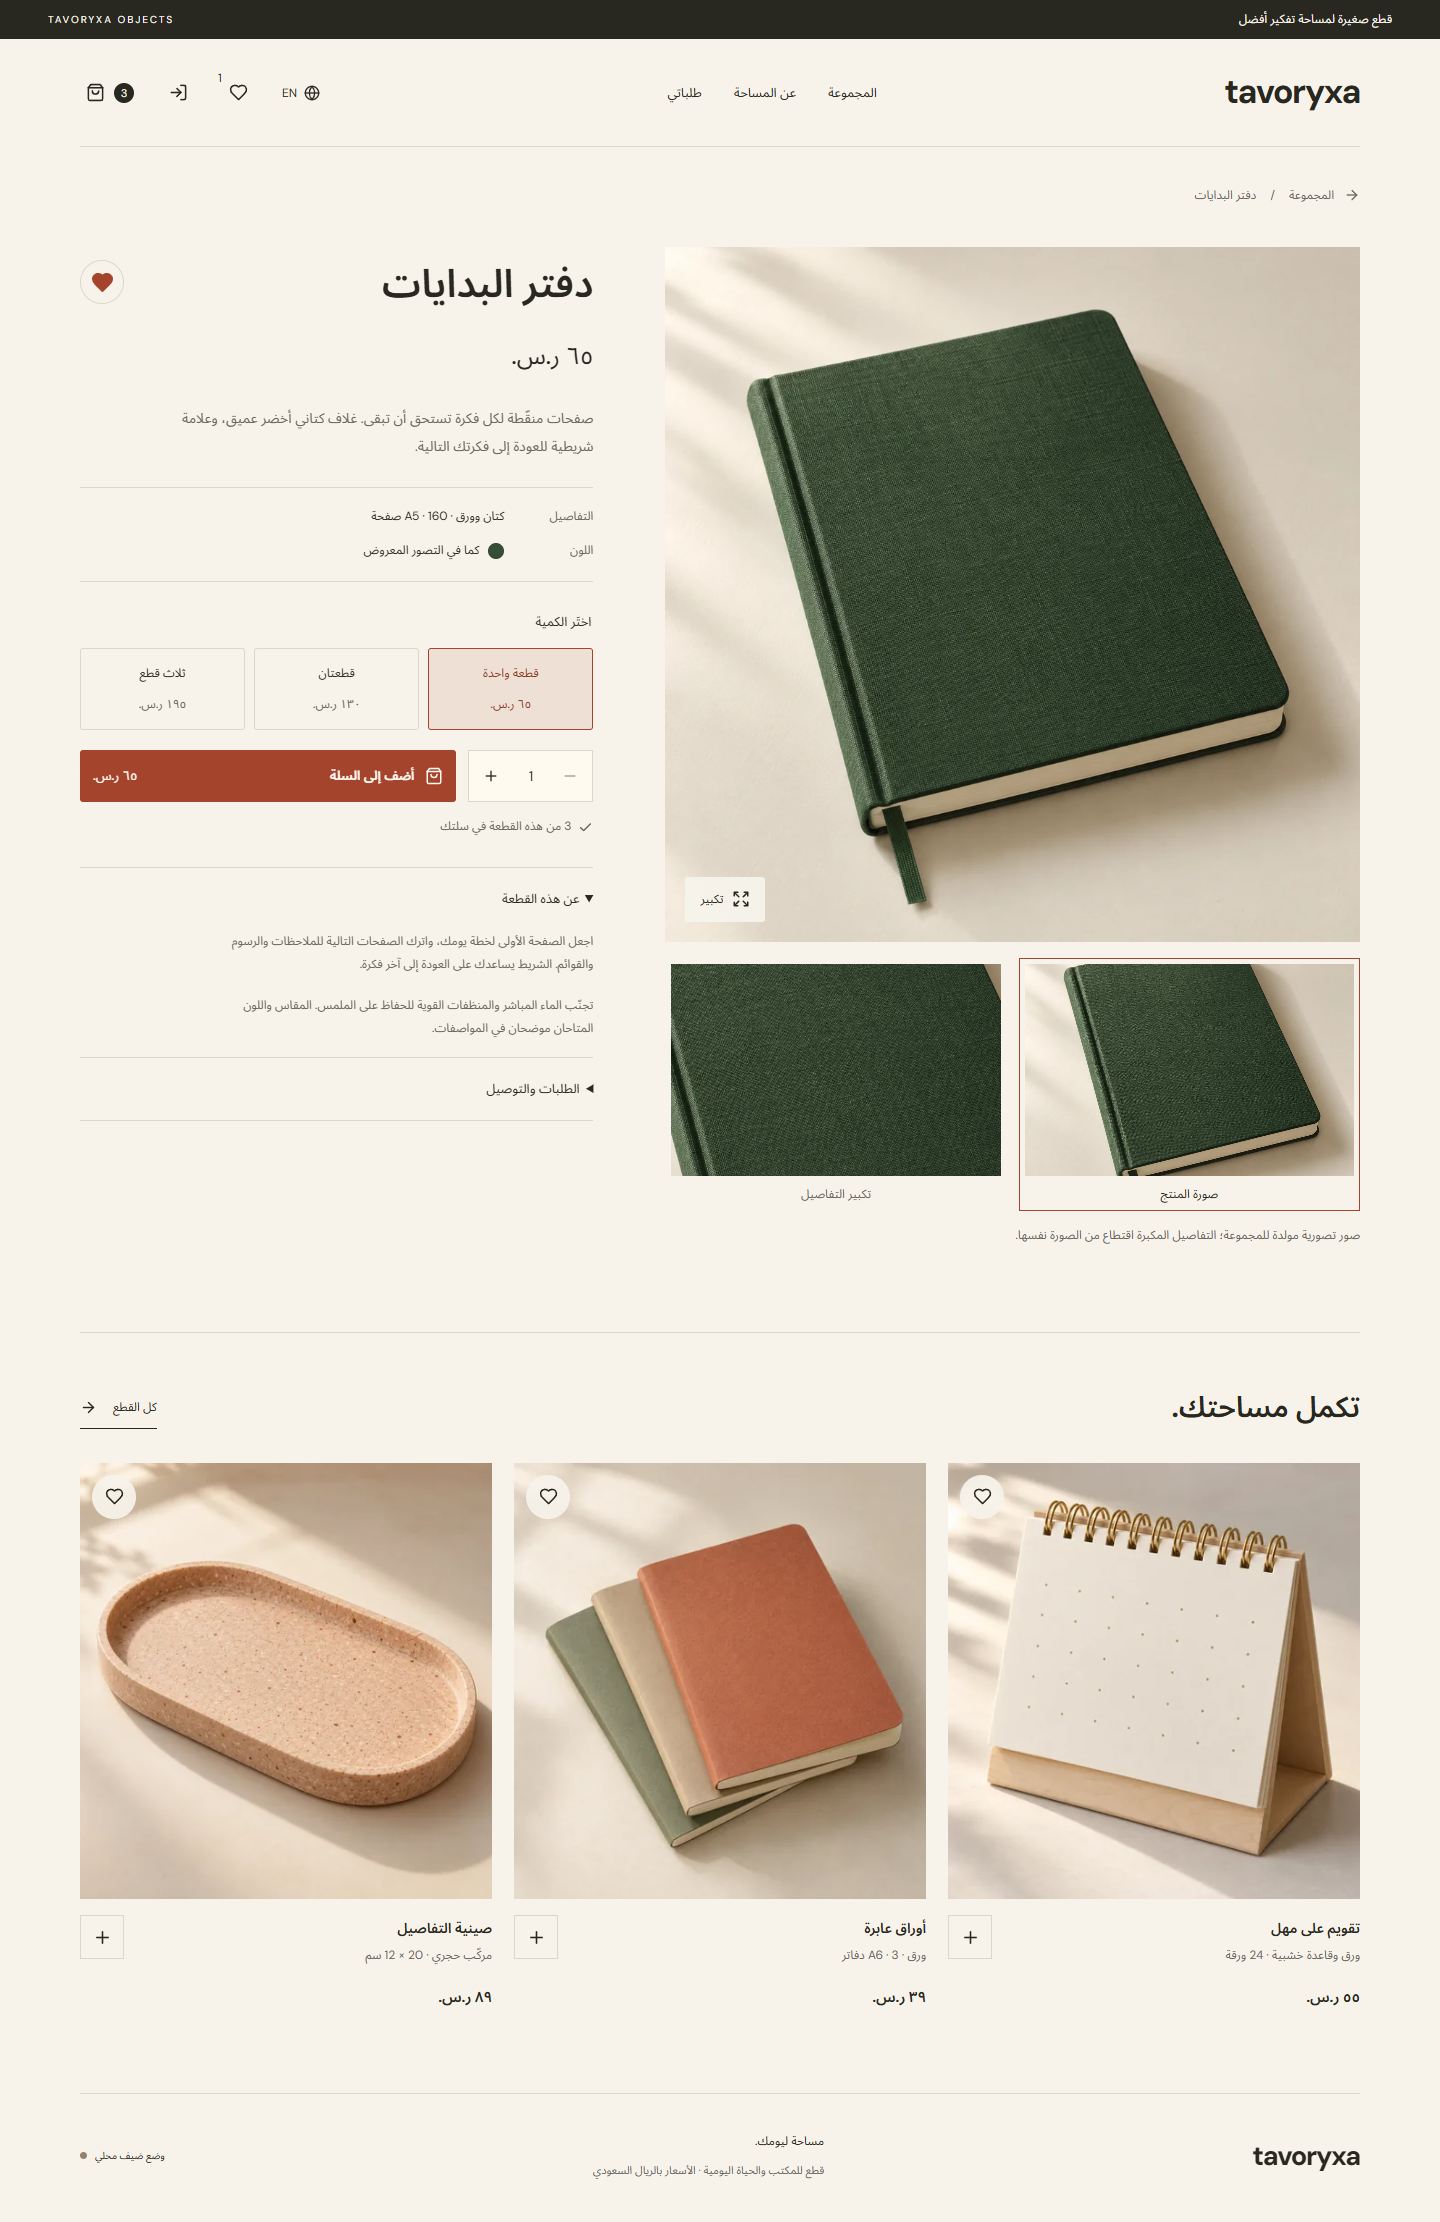
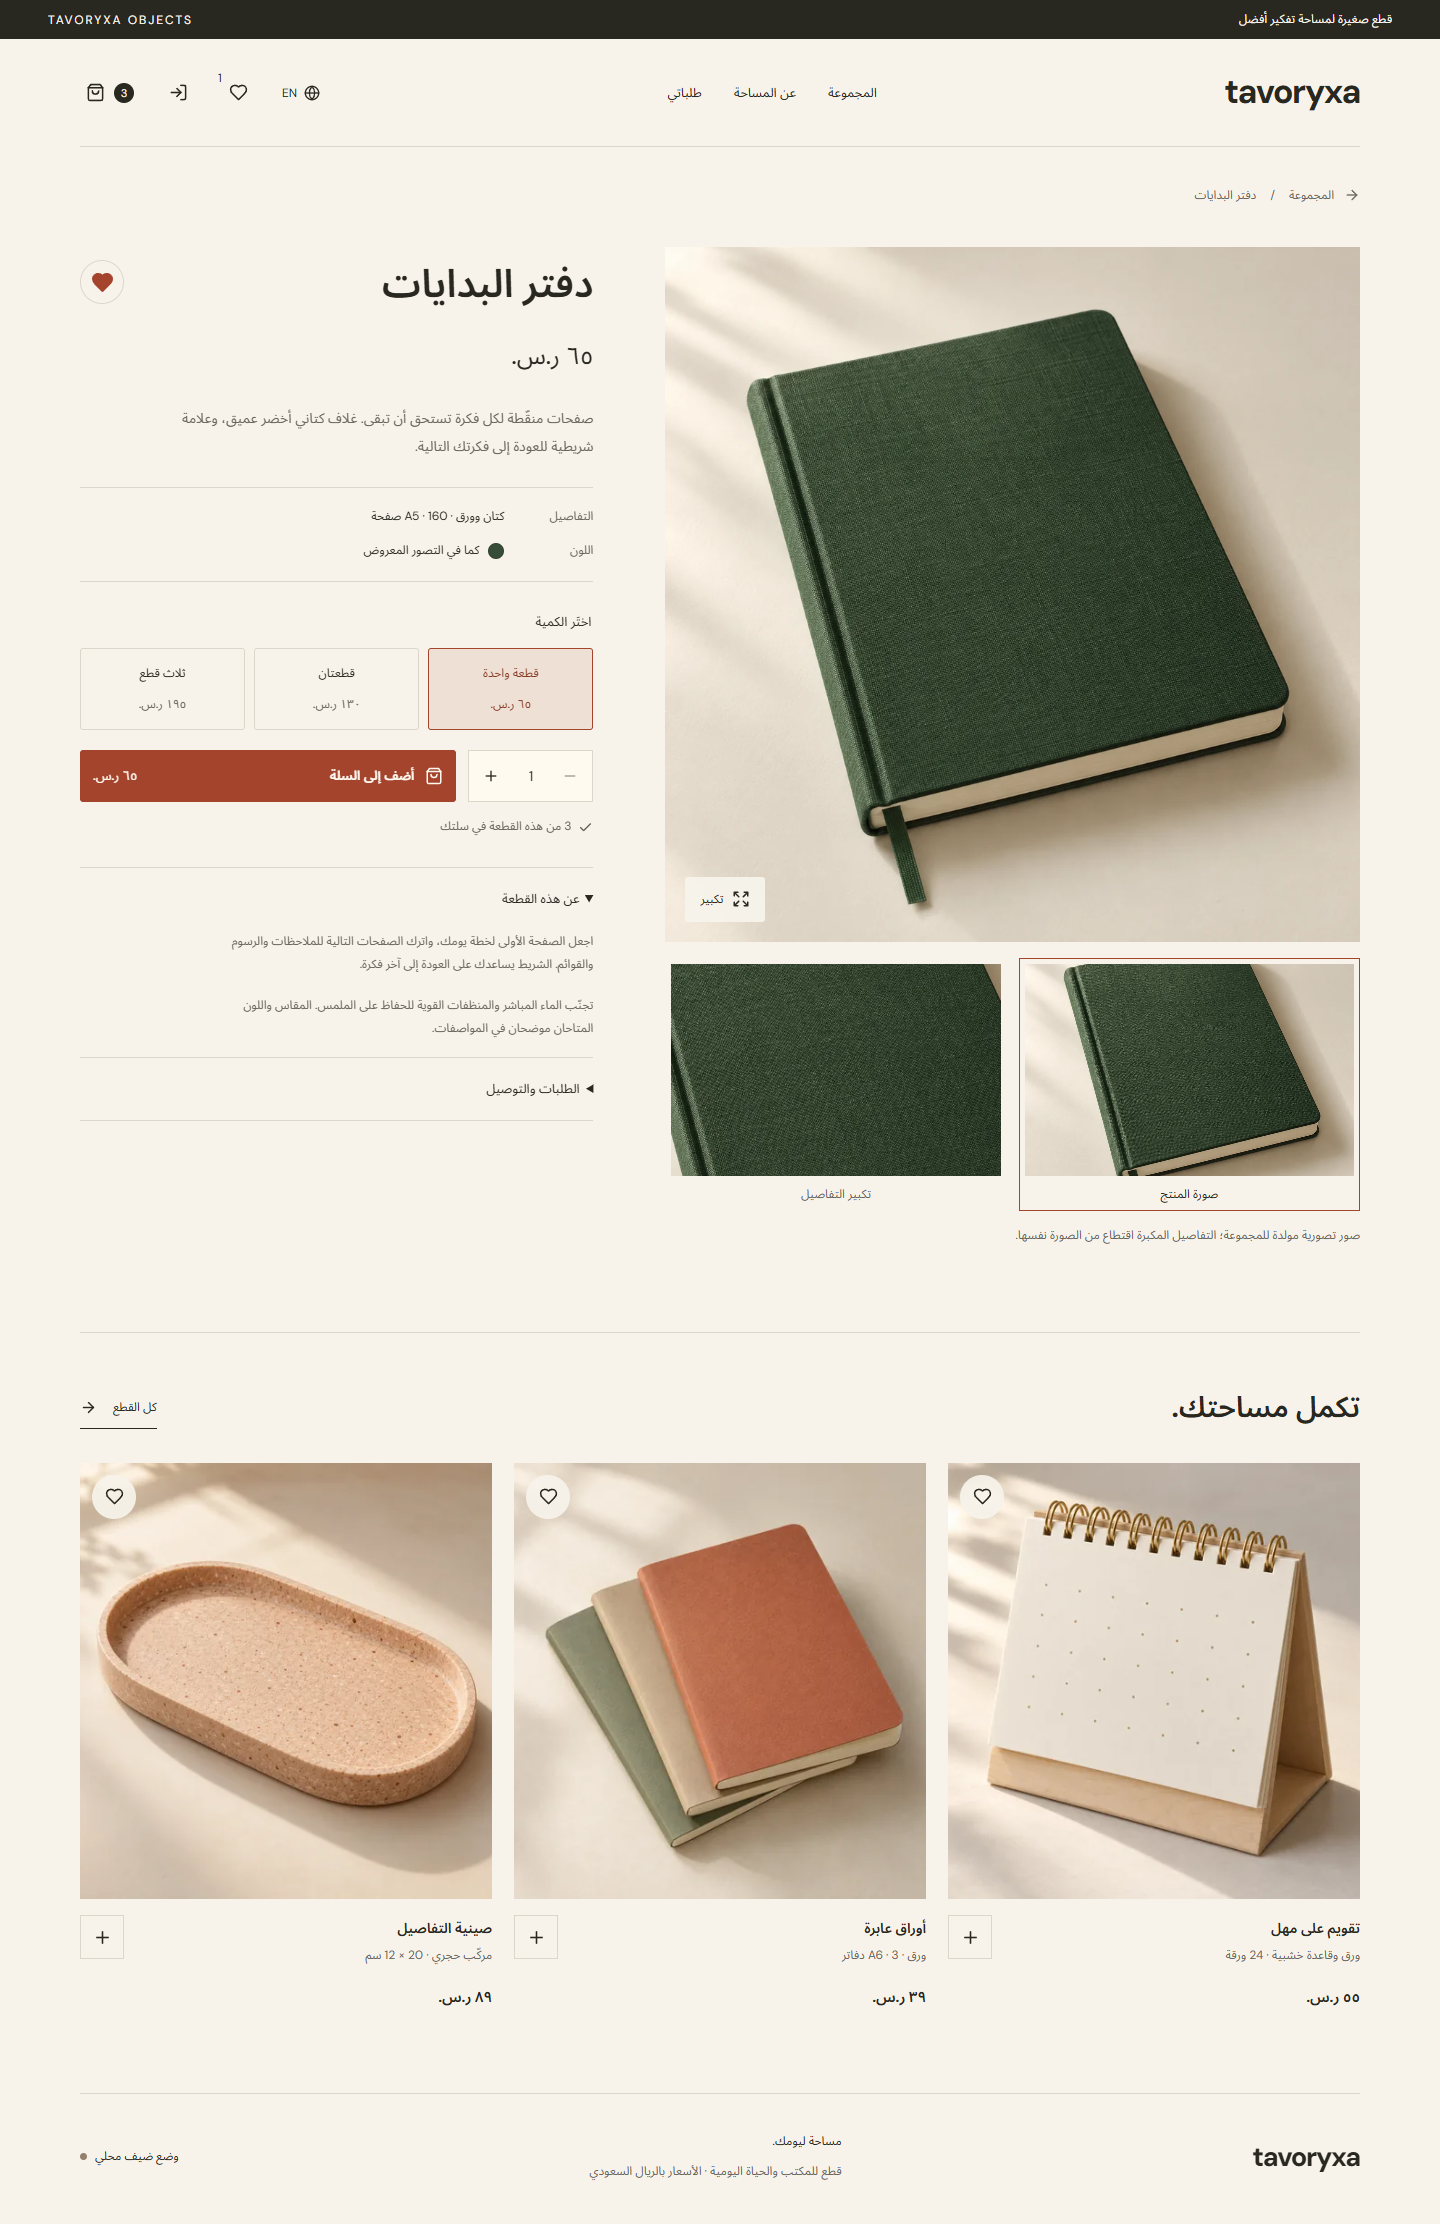
Improve storefront text readability and record release checks

diff --git a/src/style.css b/src/style.css
@@ -93,7 +93,7 @@ svg {
 .announcement {
   background: var(--ink);
   color: var(--paper);
-  font-size: 11px;
+  font-size: 12px;
   min-height: 34px;
   padding: 7px 48px;
   display: flex;
@@ -103,7 +103,7 @@ svg {
 }
 .announcement span {
   font-family: 'DM Sans', sans-serif;
-  font-size: 10px;
+  font-size: 12px;
   letter-spacing: 2px;
 }
 .header {
@@ -124,7 +124,7 @@ svg {
   line-height: 1.2;
 }
 .wordmark span {
-  font-size: 11px;
+  font-size: 12px;
   letter-spacing: 0;
   vertical-align: top;
   position: relative;
@@ -247,7 +247,7 @@ svg {
   display: flex;
   align-items: center;
   gap: 12px;
-  font-size: 11px;
+  font-size: 12px;
   color: var(--muted);
   margin-top: 44px;
 }
@@ -325,7 +325,7 @@ svg {
 .hero-feature small {
   display: block;
   color: var(--muted);
-  font-size: 10px;
+  font-size: 12px;
   margin-top: 4px;
 }
 .hero-feature > span:last-child {
@@ -342,7 +342,7 @@ svg {
   border-block: 1px solid var(--line);
   gap: 22px;
   color: #5c5b50;
-  font-size: 11px;
+  font-size: 12px;
 }
 .values span {
   display: flex;
@@ -391,7 +391,7 @@ h2 {
   flex-wrap: wrap;
 }
 .category-tabs button {
-  font-size: 11px;
+  font-size: 12px;
   padding: 9px 0;
   min-height: 44px;
   color: var(--muted);
@@ -426,7 +426,7 @@ h2 {
   background: none;
   width: 140px;
   color: var(--ink);
-  font-size: 11px;
+  font-size: 12px;
   min-height: 44px;
   outline-offset: 0;
 }
@@ -436,7 +436,7 @@ h2 {
 select {
   border: 0;
   background: transparent;
-  font-size: 11px;
+  font-size: 12px;
   color: var(--muted);
   min-height: 44px;
   width: 115px;
@@ -488,7 +488,7 @@ select {
   justify-content: space-between;
   align-items: center;
   background: #f7f3ebd9;
-  font-size: 10px;
+  font-size: 12px;
   opacity: 0;
   transform: translateY(100%);
   transition:
@@ -517,7 +517,7 @@ select {
   line-height: 1.8;
 }
 .product-info p {
-  font-size: 10px;
+  font-size: 12px;
   color: var(--muted);
   line-height: 1.8;
   margin-top: 4px;
@@ -616,7 +616,7 @@ select {
   margin-top: 5px;
 }
 .footer > button {
-  font-size: 10px;
+  font-size: 12px;
   display: flex;
   align-items: center;
   gap: 8px;
@@ -689,7 +689,7 @@ body:has(dialog[open]) {
   padding-block: 14px;
 }
 .muted {
-  font-size: 11px !important;
+  font-size: 12px !important;
   line-height: 1.9 !important;
   color: var(--muted);
   margin-block: 12px;
@@ -730,7 +730,7 @@ body:has(dialog[open]) {
   font-size: 13px;
 }
 .cart-line-info > span {
-  font-size: 11px;
+  font-size: 12px;
   color: var(--muted);
 }
 .quantity {
@@ -816,7 +816,7 @@ body:has(dialog[open]) {
   width: 100%;
 }
 .mode-note {
-  font-size: 11px;
+  font-size: 12px;
   color: var(--muted);
   line-height: 2;
   margin-block: 16px;
@@ -876,7 +876,7 @@ body:has(dialog[open]) {
 }
 .order-card > div > span,
 .order-card small {
-  font-size: 10px;
+  font-size: 12px;
   color: var(--muted);
 }
 .order-card p {
@@ -917,7 +917,7 @@ body:has(dialog[open]) {
 .toast button {
   color: #e7c6a5;
   border-bottom: 1px solid;
-  font-size: 11px;
+  font-size: 12px;
   min-height: 30px;
 }
 .checkout .summary {
@@ -1086,7 +1086,7 @@ html[lang='en'] .modal h2 {
   .values {
     padding-block: 17px;
     justify-content: center;
-    font-size: 10px;
+    font-size: 12px;
   }
   .values > span:nth-child(2),
   .values > span:nth-child(3) {
@@ -1102,7 +1102,7 @@ html[lang='en'] .modal h2 {
     font-size: 25px;
   }
   .section-heading p {
-    font-size: 11px;
+    font-size: 12px;
   }
   .collection-count {
     display: none;
@@ -1117,7 +1117,7 @@ html[lang='en'] .modal h2 {
     gap: 9px;
   }
   .category-tabs button {
-    font-size: 10px;
+    font-size: 12px;
   }
   .category-tabs button.active:after {
     bottom: 0;
@@ -1155,7 +1155,7 @@ html[lang='en'] .modal h2 {
     min-height: 38px;
   }
   .price {
-    font-size: 11px;
+    font-size: 12px;
     margin-top: 6px;
   }
   .product-index {
@@ -1234,13 +1234,13 @@ html[lang='en'] .modal h2 {
     font-size: 20px;
   }
   .toast {
-    font-size: 10px;
+    font-size: 12px;
     gap: 9px;
     padding: 11px 14px;
     bottom: 18px;
   }
   .toast button {
-    font-size: 10px;
+    font-size: 12px;
   }
   .order-card small {
     font-size: 8px;
@@ -1256,7 +1256,7 @@ html[lang='en'] .modal h2 {
     font-size: 28px;
   }
   html[lang='en'] .category-tabs button {
-    font-size: 10px;
+    font-size: 12px;
   }
   html[lang='en'] .story h2 {
     font-size: 31px;
@@ -1283,7 +1283,7 @@ html[lang='en'] .modal h2 {
   color: #625e50;
 }
 .product-info p {
-  font-size: 11px;
+  font-size: 12px;
 }
 .category-tabs button,
 .search input,
@@ -1299,21 +1299,21 @@ select {
   min-height: 44px;
 }
 .footer small {
-  font-size: 11px;
+  font-size: 12px;
 }
 .language {
   min-width: 44px;
 }
 .product-index,
 .visual-caption {
-  font-size: 10px;
+  font-size: 12px;
 }
 .product-info > button:first-child {
   min-height: 44px;
 }
 @media (max-width: 750px) {
   .product-info p {
-    font-size: 10px;
+    font-size: 12px;
   }
   .hero-copy > p {
     font-size: 14px;
@@ -1322,22 +1322,22 @@ select {
     font-size: 13px;
   }
   .category-tabs button {
-    font-size: 11px;
+    font-size: 12px;
   }
   .price {
     font-size: 12px;
   }
   .footer small {
-    font-size: 10px;
+    font-size: 12px;
   }
   .collection-count {
     display: none;
   }
   .announcement {
-    font-size: 10px;
+    font-size: 12px;
   }
   .hero-feature small {
-    font-size: 11px;
+    font-size: 12px;
   }
   .add-button {
     min-width: 32px;

diff --git a/REVIEW.md b/REVIEW.md
@@ -1,5 +1,15 @@
 # Review and verification / المراجعة والتحقق
 
+## Public upgrade acceptance — 2026-10-24 / التحقق من التوسعة
+
+The lead reviewed collection/product/order screenshots and source. Confirmed image defects were fixed: the hover arrow stays 16px and the calendar's Latin text has an explicit LTR direction. Nine generated photos plus responsive variants are shipped locally. Gallery uses a clearly labeled detail crop, with honest illustration fallback on failure. Global demo banners were replaced by brand copy; simulated checkout and order status remain explicit.
+
+19 source tests, production build, formatting and the storefront browser packet passed. The latter verifies AR/EN at 390/820/1440, all eight photos, gallery/zoom and focus return, quantity bounds, wishlist reload, order totals/re-add and image failure. The lead added centralized user-authorized shipping estimates and raised remaining small CSS text to a 12px floor, then reran the packet successfully. Estimates do not enable commercial fulfillment; see COMMERCE_SETUP.md.
+
+First public Webforge acceptance scored 99 with no high accessibility findings or responsive overflow. Heuristic low issues were reviewed separately from actual usability. This score is an automated design audit, not a Lighthouse or field-performance measurement.
+
+<div dir="rtl" align="right">أُصلحت الصور واتجاه النص، وأضيفت صفحات المنتجات والمعرض والمفضلة وسجل الطلبات. نجح 19 اختبارًا والبناء وفحوص المتصفح بالعربية والإنجليزية وثلاثة أحجام. أُضيفت بيانات توصيل تقديرية بموافقة المستخدم دون تفعيل بيع أو شحن غير مؤكد. راجع الوكيل الرئيسي النتائج والمصدر، واكتملت الاختبارات المستهدفة بعد تكبير النصوص.</div>
+
 ## Local upgrade verification — 2026-10-23 / تحقق التوسعة المحلية
 
 This section concerns expanded local source, not a new deployment. TypeScript, production build and 19 unit tests passed. Existing shopping, auth-isolation, auth-form and installed-SDK PKCE fixtures passed. New `qa/storefront.cjs` passed with external traffic blocked: eight photos loaded; arrow is 16px; product deep links, detail crop, enlargement/Escape/focus return, bounded quantities, wishlist reload, simulated order detail/re-add, missing route and image-failure fallback work. AR/EN at 390/820/1440px had no horizontal overflow or page errors. Proof: `qa/upgrade/`.
